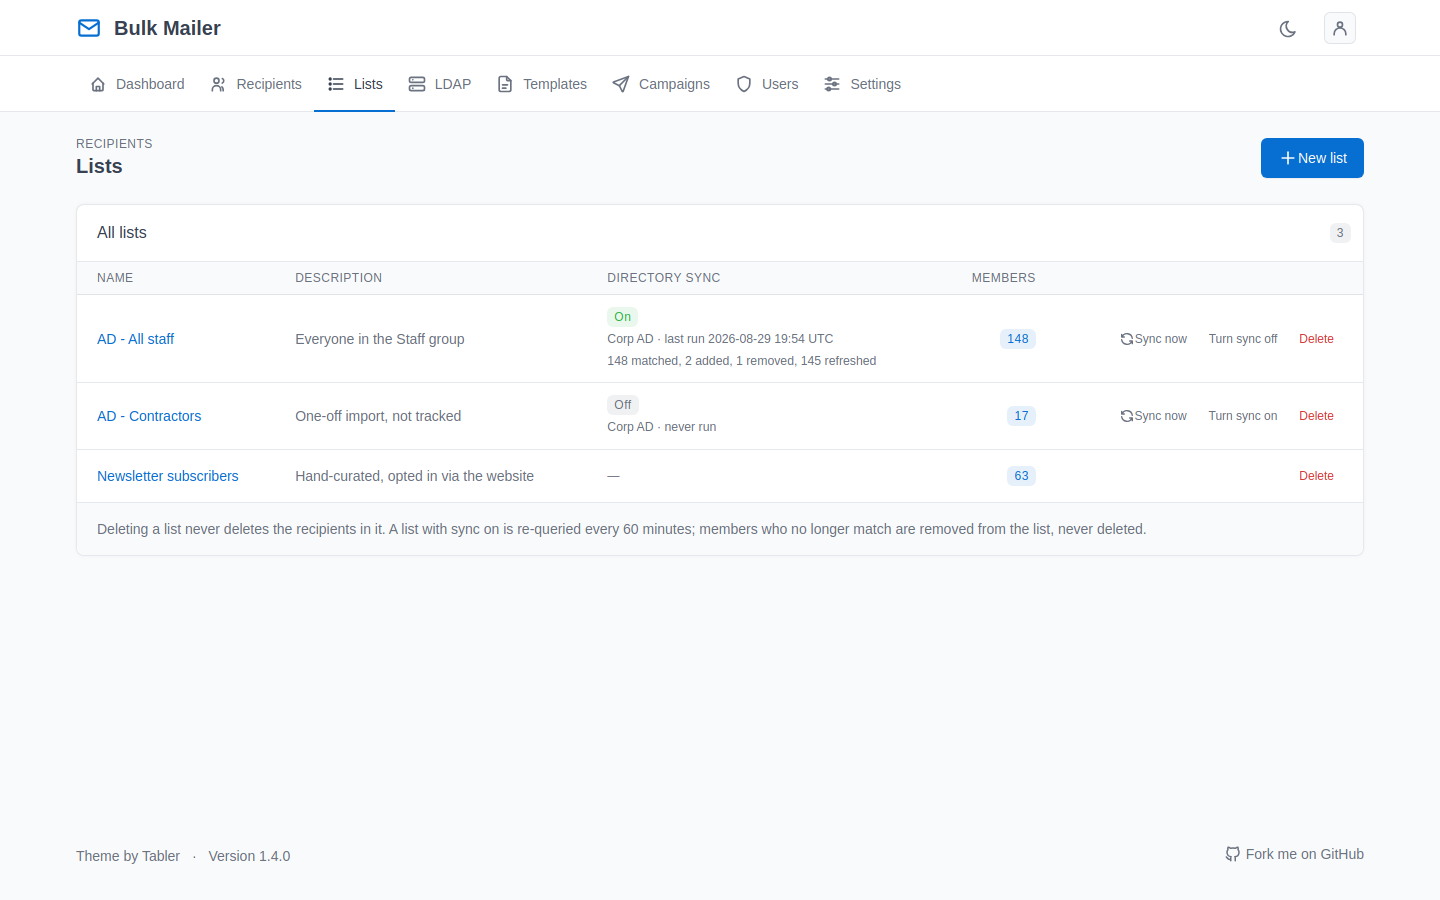
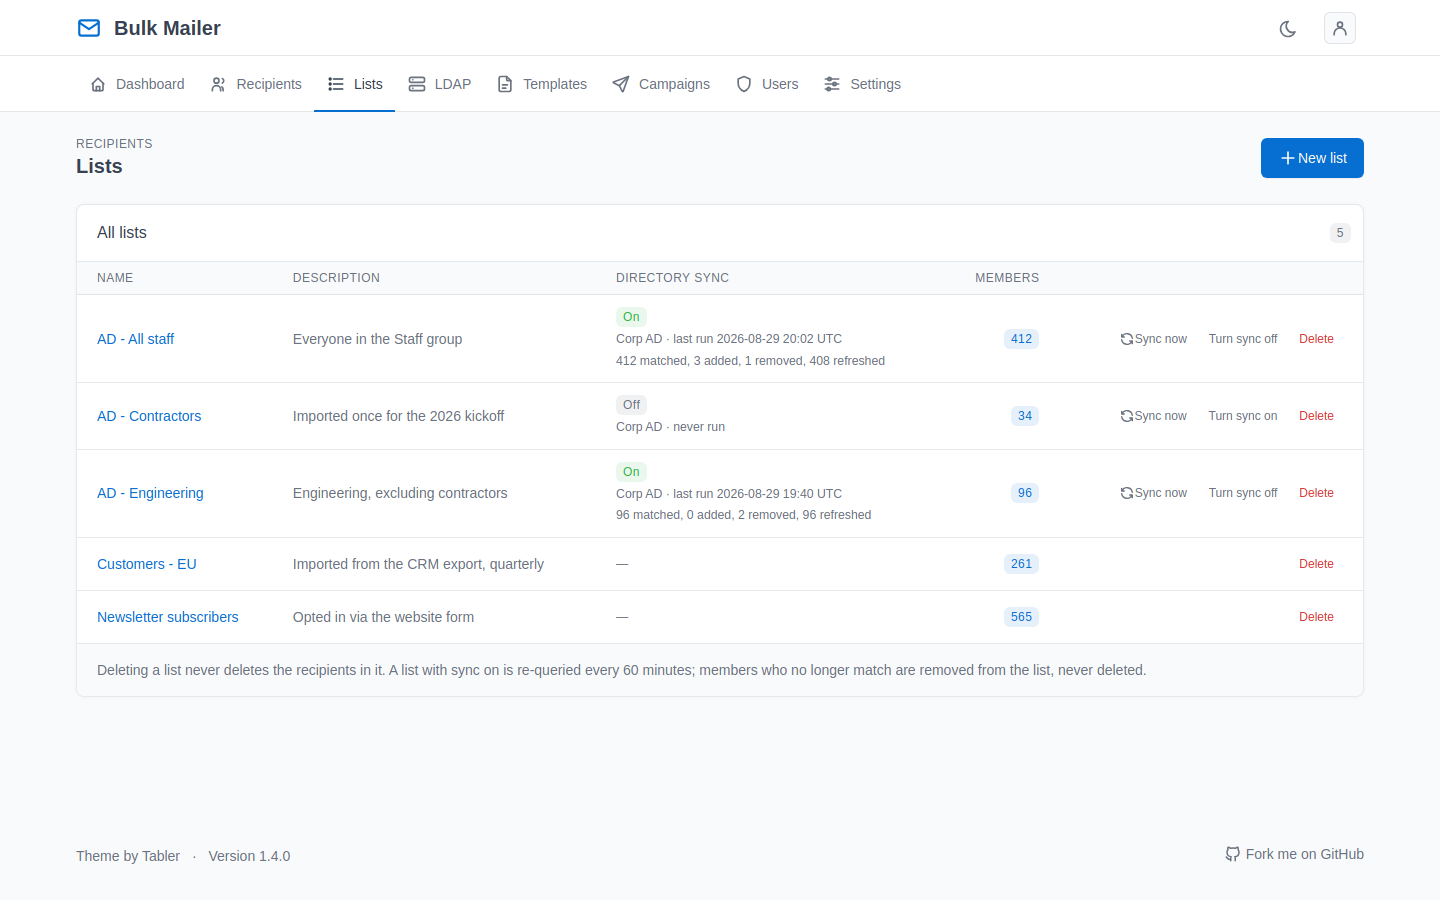
Retake every screenshot against an installation in regular use
The set showed a fresh install: empty tables, "No LDAP profile yet", a blank
campaign form. That answers "what does the chrome look like" and not much
else, and none of them predated the page footer or the directory sync column.

Retaken against the published 1.4.0 image with a throwaway database seeded to
look used - 1331 recipients across five lists, five templates, eight
campaigns spanning completed, paused mid-send, draft, cancelled and failed,
four accounts mixing local and directory sign-in, and SMTP configured. All
fictional: example.com addresses, an unreachable directory, a mail server
that does not exist.

The New campaign form is filled in rather than blank. An empty form was the
least informative image in the set and exactly the thing this pass exists to
remove.

Two captions in the docs described something their screenshot did not show -
a template editor where the image is the template list, and a search preview
where the image is the profile list. Corrected rather than re-framed, since
the pages themselves are the right ones to show.

Framing is unchanged: 1440 wide, light theme, full page. Only the recipients
table is clipped (at 1700 of 3254), because 1331 rows scaled into a docs page
is unreadable.

diff --git a/docs/screenshots.md b/docs/screenshots.md
@@ -9,6 +9,13 @@ The whole application, so you can judge it before installing anything. Light
 theme shown; there is a dark one, and it follows your system setting by
 default.
 
+::: info Everything here is made up
+These are taken against a throwaway database seeded to look like an
+installation in regular use — a fresh install shows the same screens with
+empty tables. The names, addresses, directory and mail server are all
+fictional, and nothing in it can send.
+:::
+
 ## Sign in
 
 ![The sign-in page](/media/screenshots/01-login.png)
@@ -46,7 +53,7 @@ each last ran, and why the last run failed if it did.
 
 ## Templates
 
-![The template editor with a visual and an HTML mode](/media/screenshots/05-templates.png)
+![The saved templates, each reusable in a campaign](/media/screenshots/05-templates.png)
 
 Write once, reuse. Visual editing or raw HTML, with a plain-text part
 generated automatically. Placeholders like `{{ first_name }}` are filled per
@@ -79,7 +86,7 @@ Stored passwords are encrypted with a key derived from `SECRET_KEY`.
 
 ## LDAP
 
-![An LDAP profile with search preview and group filters](/media/screenshots/09-ldap.png)
+![Connection profiles and the list synchronisation interval](/media/screenshots/09-ldap.png)
 
 Connection profiles, attribute mapping, and a search you can preview before
 importing anything. Group filters handle include and exclude by DN, nested
